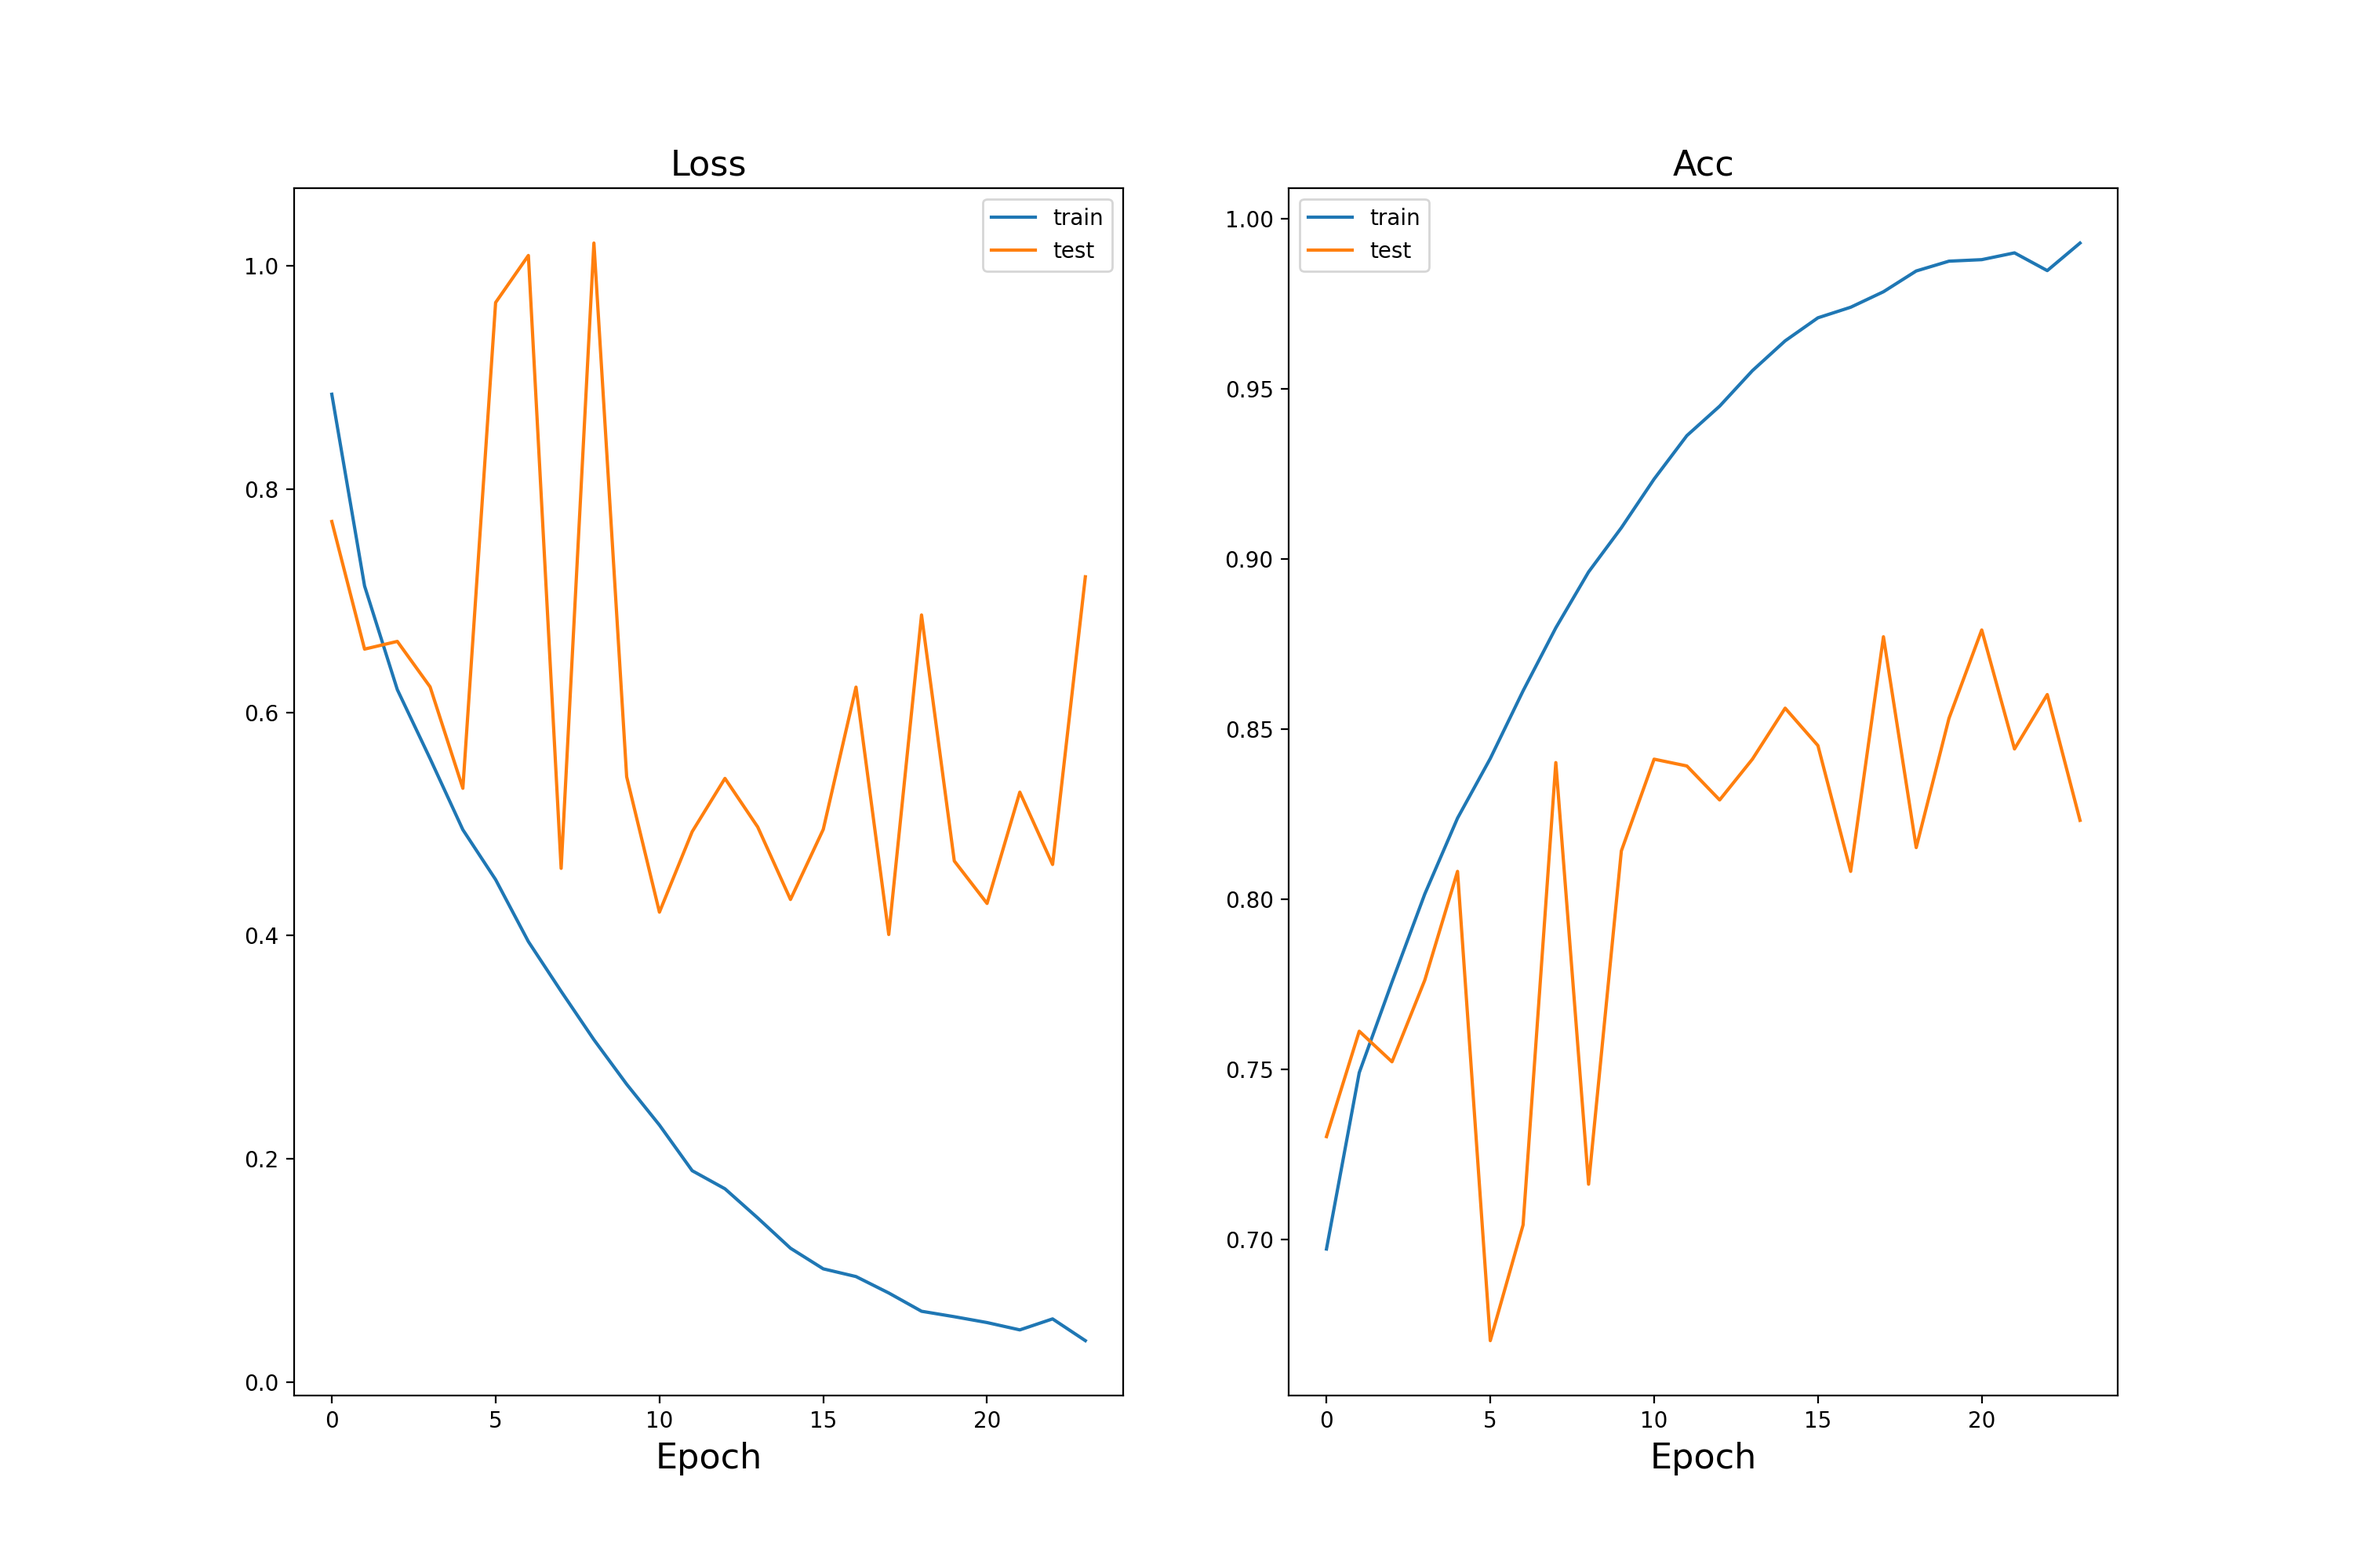
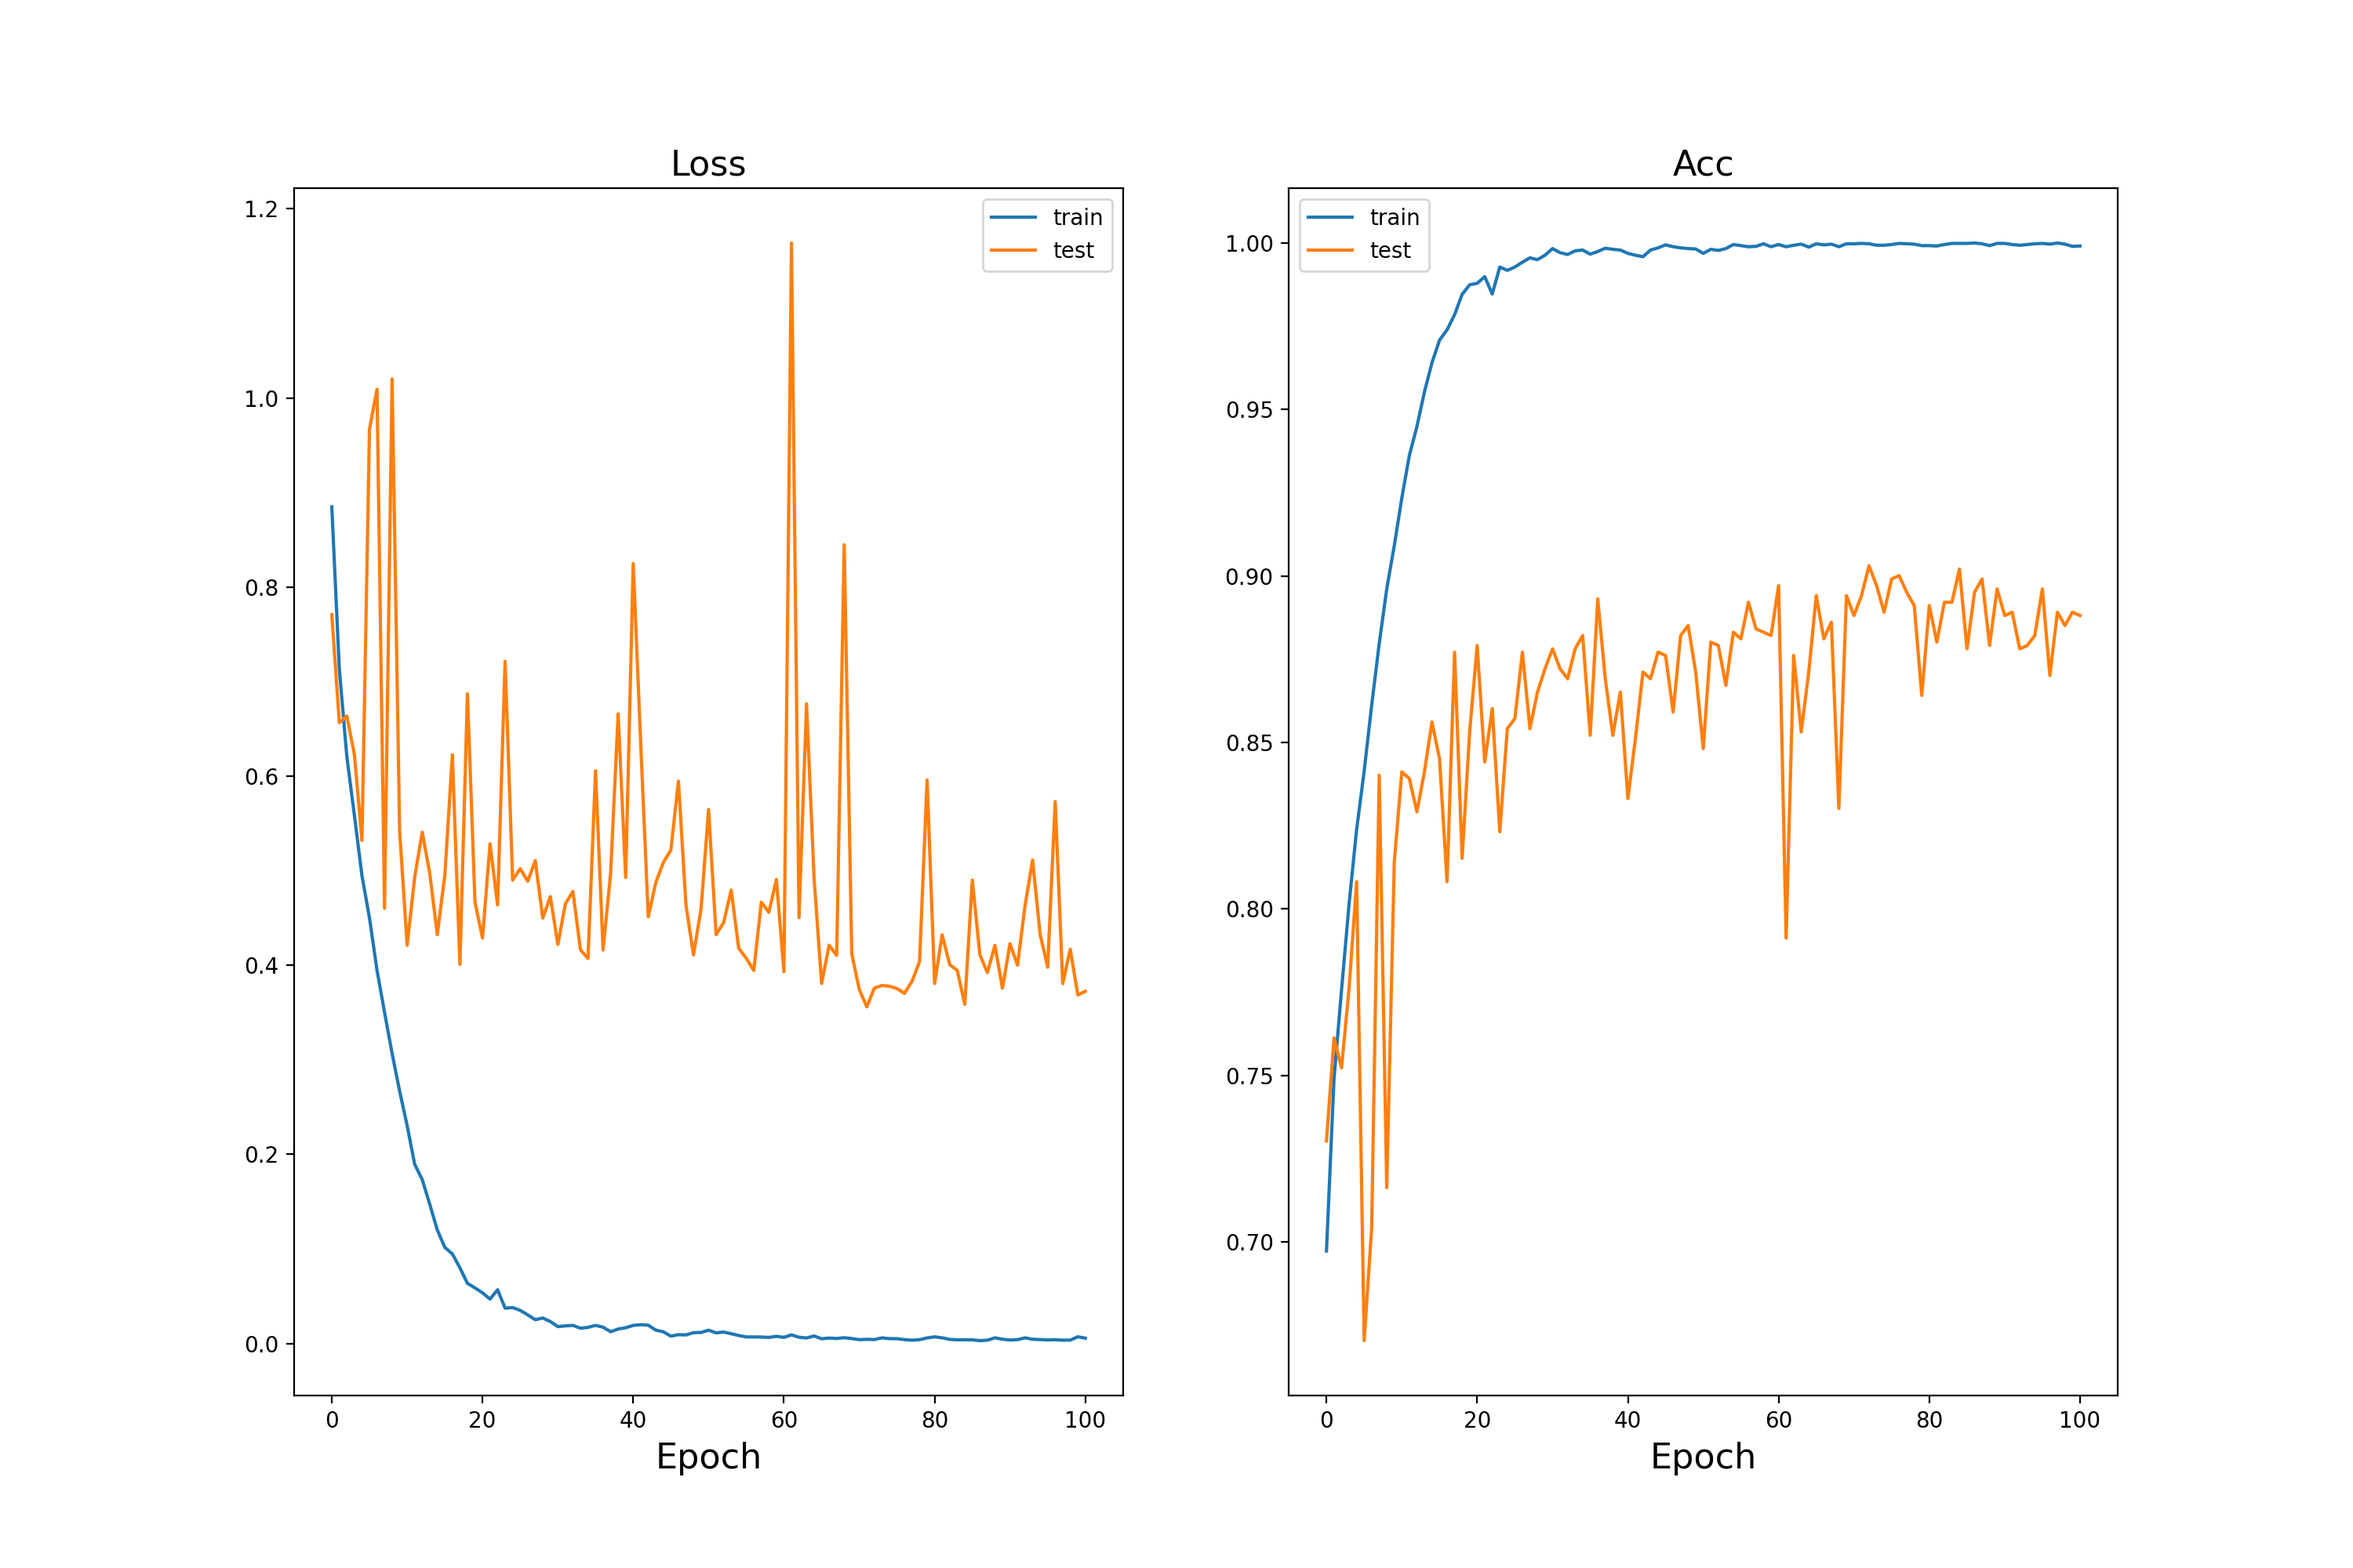
backup

diff --git a/loss_acc_plot.py b/loss_acc_plot.py
@@ -44,6 +44,18 @@ test_loss = np.load('/home/users/s19013225/workspace/2022.Class.DataAnalysisAndP
 train_acc = np.load('/home/users/s19013225/workspace/2022.Class.DataAnalysisAndPratice2/checkpoint/ver6-2_SGD_1e-3_epoch_100/train_acc.npy')
 test_acc = np.load('/home/users/s19013225/workspace/2022.Class.DataAnalysisAndPratice2/checkpoint/ver6-2_SGD_1e-3_epoch_100/test_acc.npy')
 
+# ver7
+train_loss = np.load('/home/users/s19013225/workspace/2022.Class.DataAnalysisAndPratice2/checkpoint/ver7_SGD_1e-3_epoch_100/train_loss.npy')
+test_loss = np.load('/home/users/s19013225/workspace/2022.Class.DataAnalysisAndPratice2/checkpoint/ver7_SGD_1e-3_epoch_100/test_loss.npy')
+train_acc = np.load('/home/users/s19013225/workspace/2022.Class.DataAnalysisAndPratice2/checkpoint/ver7_SGD_1e-3_epoch_100/train_acc.npy')
+test_acc = np.load('/home/users/s19013225/workspace/2022.Class.DataAnalysisAndPratice2/checkpoint/ver7_SGD_1e-3_epoch_100/test_acc.npy')
+
+# ver8
+train_loss = np.load('/home/users/s19013225/workspace/2022.Class.DataAnalysisAndPratice2/checkpoint/ver8_SGD_1e-3_epoch_100/train_loss.npy')
+test_loss = np.load('/home/users/s19013225/workspace/2022.Class.DataAnalysisAndPratice2/checkpoint/ver8_SGD_1e-3_epoch_100/test_loss.npy')
+train_acc = np.load('/home/users/s19013225/workspace/2022.Class.DataAnalysisAndPratice2/checkpoint/ver8_SGD_1e-3_epoch_100/train_acc.npy')
+test_acc = np.load('/home/users/s19013225/workspace/2022.Class.DataAnalysisAndPratice2/checkpoint/ver8_SGD_1e-3_epoch_100/test_acc.npy')
+
 fig = plt.figure(figsize=(15,10), dpi=200)
 ax1 = fig.add_subplot(1, 2, 1)
 ax1.plot(np.arange(len(train_loss)), train_loss, label='train')

diff --git a/main.py b/main.py
@@ -22,7 +22,8 @@ from tqdm import tqdm
 
 def loss_batch(loss, outputs, target, opt, loss_list, pred_list, gt_list):
 
-    if np.shape(outputs)[0] == 3:
+    # if np.shape(outputs)[0] == 3:
+    if len(outputs) == 3:
         output, aux1, aux2 = outputs
 
         output_loss = loss(output, target)
@@ -265,6 +266,6 @@ OMP_NUM_THREADS=1 python main.py --gpu '1' --batch_size 16 --save_path './checkp
 OMP_NUM_THREADS=32 python main.py --gpu '1' --batch_size 16 --save_path './checkpoint/ver7_SGD_1e-3_epoch_100' --num_workers 30
 
 # pretrained 모델로 init + aux loss 0 + augmented data 0 버전
-OMP_NUM_THREADS=32 python main.py --gpu '1' --batch_size 16 --save_path './checkpoint/ver8_SGD_1e-3_epoch_100' --num_workers 30
+OMP_NUM_THREADS=32 python main.py --gpu '0' --batch_size 16 --save_path './checkpoint/ver8_SGD_1e-3_epoch_100' --num_workers 30
 
 """
